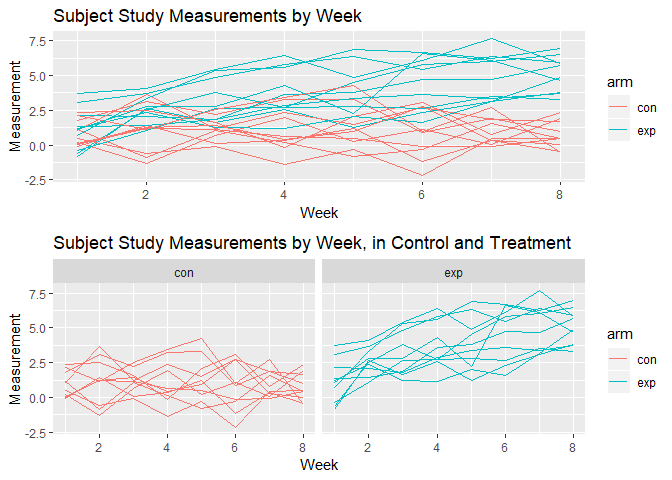
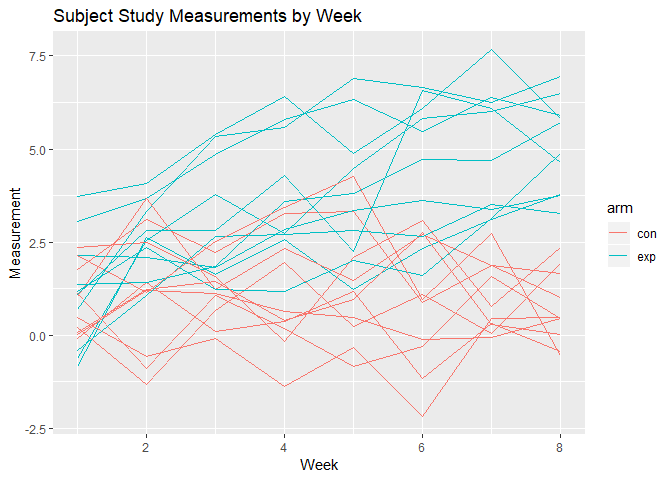
Removed extra plot to follow directions.

diff --git a/p8105_hw5_jld2227.md b/p8105_hw5_jld2227.md
@@ -71,11 +71,7 @@ spaghetti_con_exp <- ggplot(data = study_data,
   geom_line() + #Specifies the plot type to line.
   labs(title = "Subject Study Measurements by Week", fill = "Study Arm",
        x = "Week", y = "Measurement") #Sets appropriate labels. 
-spaghetti_facet <- spaghetti_con_exp + 
-  facet_grid(~arm) + #creates a faceted version of the orignal plot.
-  labs(title = "Subject Study Measurements by Week, in Control and Treatment") #modifies the title
-library(patchwork) #brings in the patchwork pacage, which allows plotting multiple plots in specific arrangements
-spaghetti_con_exp / spaghetti_facet #plots the output with patchwork arragement,  regular at the top, facet plot at the bottom in this case.
+spaghetti_con_exp #plots the output
 ```
 
 ![](p8105_hw5_jld2227_files/figure-markdown_github/spaghetti_plot-1.png) On the whole, it appears that the patients in the control group are generally lower in measurement than those in the experimental group. Subject 10 is anomalously high in the control condition.
